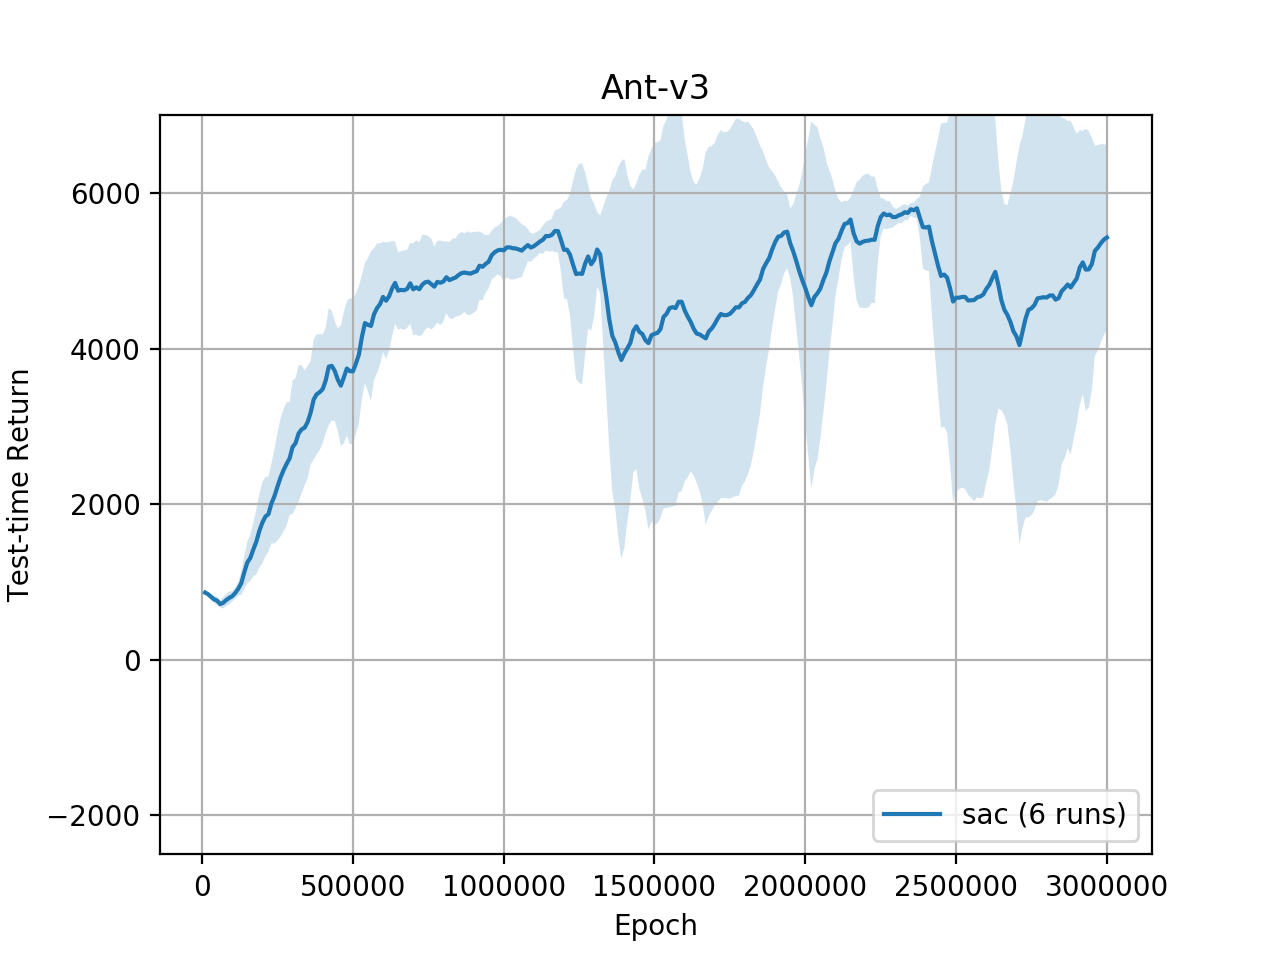
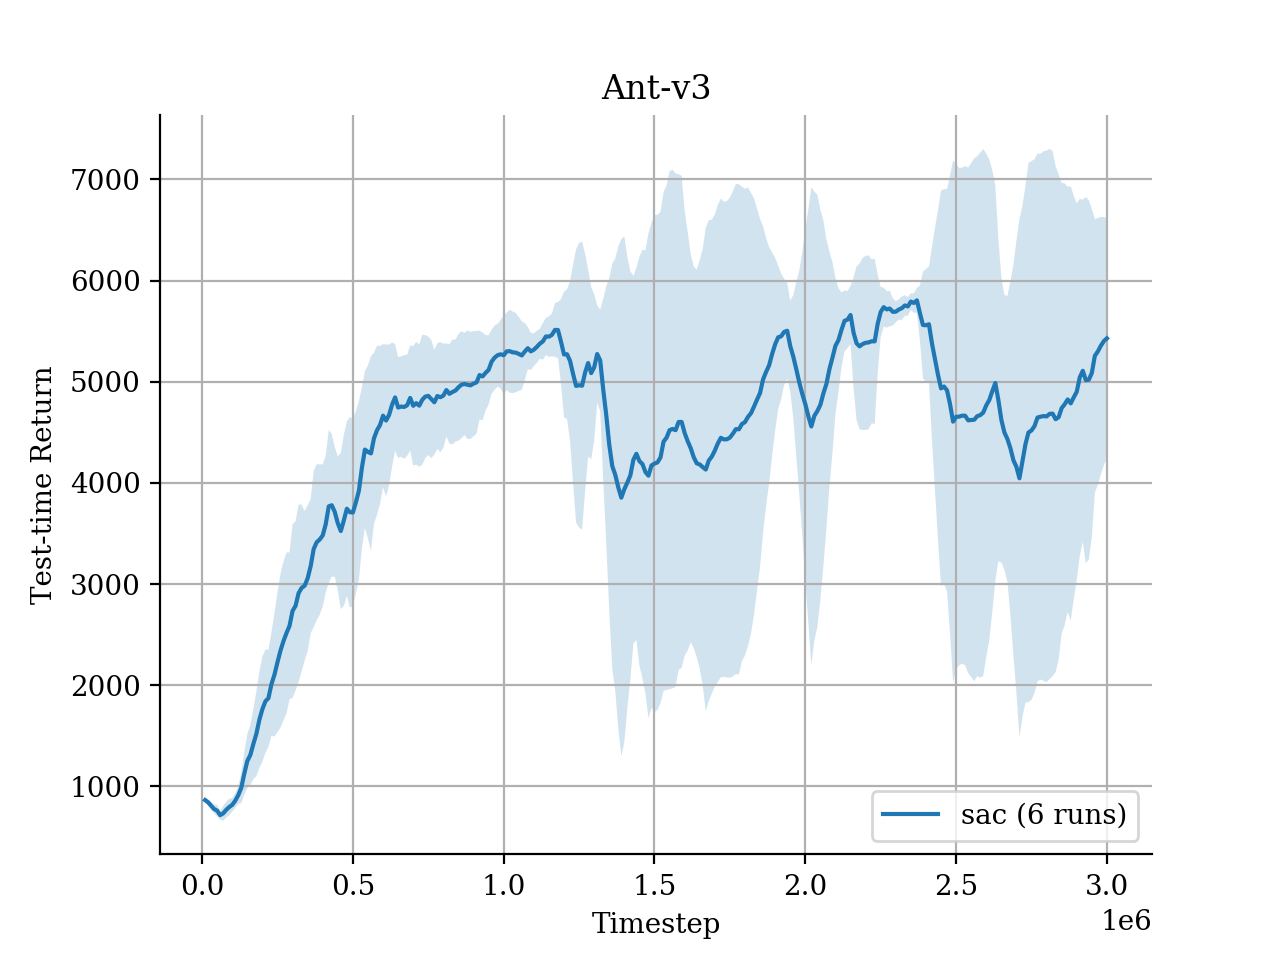
minor fix

diff --git a/results/plot_avg_return.py b/results/plot_avg_return.py
@@ -5,6 +5,7 @@ import pandas as pd
 import matplotlib.pyplot as plt
 import seaborn as sns
 from plot_utils import neighbor_smooth
+plt.rc('font', family='serif')
 
 
 def ignore_hidden_and_png(items):
@@ -48,6 +49,10 @@ if __name__ == '__main__':
     plt.xlabel('Timestep')
     plt.ylabel('Test-time Return')
     plt.legend(loc='lower right')
+
     plt.grid()
+    plt.gca().spines['right'].set_visible(False)
+    plt.gca().spines['top'].set_visible(False)
     plt.ticklabel_format(style='sci', axis='x', scilimits=(0, 0))
+
     plt.savefig(f'{env_dir}/avg_return.png', dpi=200)
